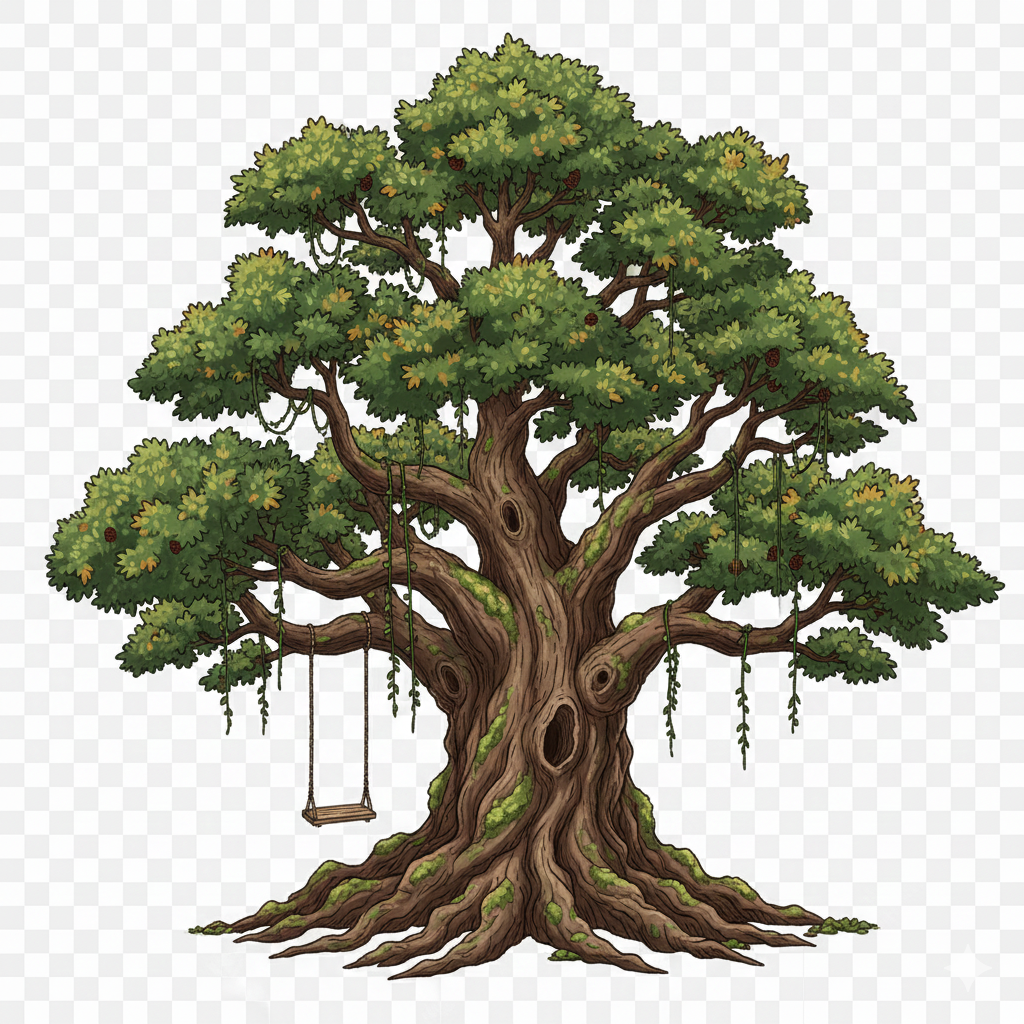
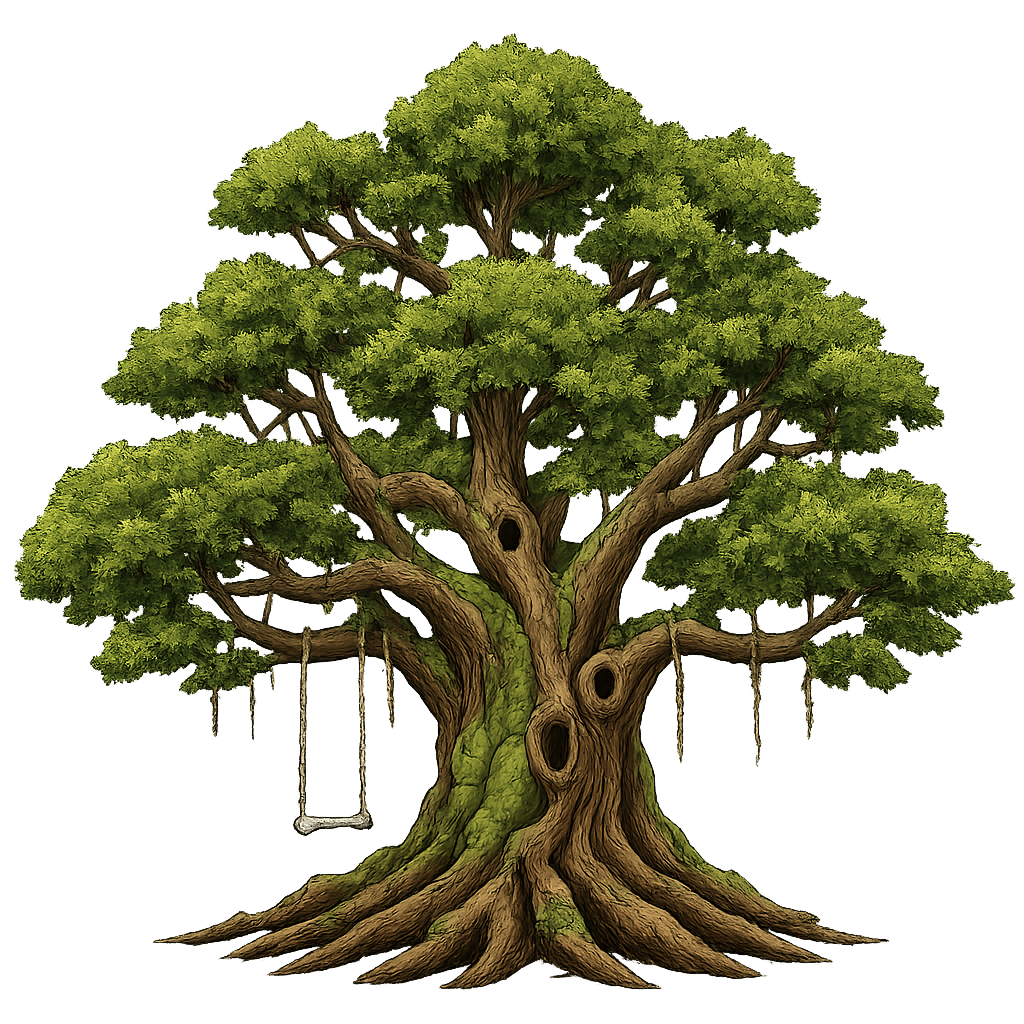
add trees

diff --git a/index.html b/index.html
@@ -581,12 +581,8 @@
 
       .decorative-tree {
         position: absolute;
-        bottom: -6px;
-        right: -18px;
         display: block;
         z-index: 0;
-        width: clamp(170px, 22vw, 250px);
-        opacity: 0.7;
         pointer-events: none;
         transform-origin: bottom left;
       }
@@ -649,11 +645,31 @@
         display: inline-block !important;
       }
 
+      body[data-theme="coastal"] .theme-only--default {
+        display: none !important;
+      }
+
+      body[data-theme="coastal"] .theme-only--coastal {
+        display: inline-block !important;
+      }
+
       body[data-theme="candlelit"] .theme-only--default {
         display: none !important;
       }
 
       body[data-theme="candlelit"] .theme-only--candlelit {
+        display: inline-block !important;
+      }
+
+      body[data-theme="forest"] .theme-only--forest {
+        display: inline-block !important;
+      }
+
+      body[data-theme="garden"] .theme-only--warm {
+        display: inline-block !important;
+      }
+
+      body[data-theme="candlelit"] .theme-only--warm {
         display: inline-block !important;
       }
 
@@ -917,13 +933,6 @@
 
 
       @media (max-width: 640px) {
-        .decorative-tree {
-          opacity: 0.38;
-          transform: translateX(-8px) scale(0.9);
-          right: -8px;
-          bottom: -12px;
-        }
-
         .corner-deco {
           width: clamp(64px, 22vw, 96px);
         }
@@ -1176,6 +1185,12 @@
                 class="theme-only theme-only--default mx-auto h-12 w-12 opacity-80"
                 loading="lazy"
               />
+              <img
+                src="img/decoration2/water_wave.png"
+                alt="小葉片裝飾"
+                class="theme-only theme-only--coastal mx-auto h-12 w-12 opacity-80"
+                loading="lazy"
+              />
               <div class="theme-only theme-only--candlelit fire-icon mx-auto" aria-hidden="true">
                 <div class="fire-icon__logs logs">
                   <div class="one"><div class="log"></div></div>
@@ -1254,11 +1269,17 @@
         <section id="location" class="leaf-pattern card-elevated relative rounded-[2.5rem] border border-white/70 bg-white/80 p-8 shadow-card backdrop-blur-sm sm:p-12" style="overflow: visible;">
           <div class="decorative-layer" aria-hidden="true">
           </div>
-          <div class="decorative-tree" aria-hidden="true">
+          <div class="decorative-tree bottom-6 right-6 w-[140px] opacity-50 mix-blend-soft-light sm:bottom-8 sm:right-8 sm:w-[180px] lg:bottom-10 lg:right-10 lg:w-[220px]" aria-hidden="true">
             <img
-              src="img/indoor-tree.png"
+              src="img/decoration2/tree_in_spring.png"
               alt=""
-              class="decorative-svg"
+              class="decorative-svg theme-only theme-only--forest"
+              loading="lazy"
+            />
+            <img
+              src="img/decoration2/trees_in_fall.png"
+              alt=""
+              class="decorative-svg theme-only theme-only--warm"
               loading="lazy"
             />
           </div>
@@ -1466,6 +1487,12 @@
                   src="img/leaf.svg"
                   alt="森林小插圖"
                   class="theme-only theme-only--default mx-auto h-20 w-20"
+                  loading="lazy"
+                />
+                <img
+                  src="img/decoration2/water_wave.png"
+                  alt="森林小插圖"
+                  class="theme-only theme-only--coastal mx-auto h-20 w-20"
                   loading="lazy"
                 />
                 <div class="theme-only theme-only--candlelit fire-icon fire-icon--lg mx-auto" aria-hidden="true">
